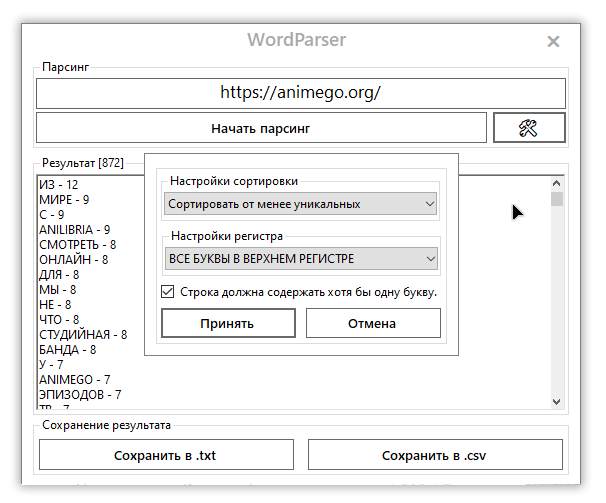
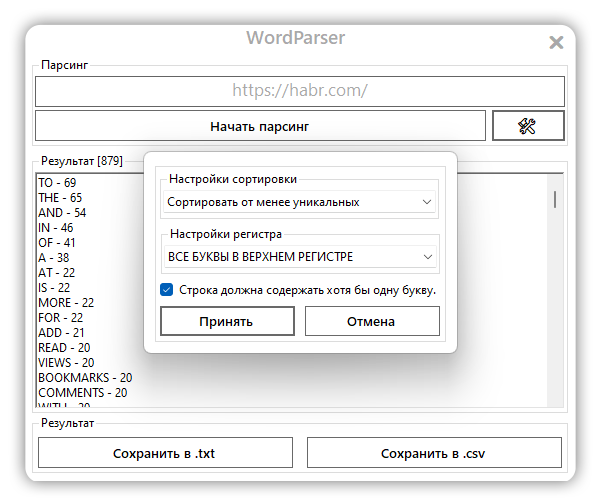
-Обновлена привьюшка и описание

Changed region(s): [[0.03, 0.0298, 0.9584, 0.9841], [0.8386, 0.3877, 0.8686, 0.4473]]

diff --git a/src/Core/Forms/WordParserMainForm.Designer.cs b/src/Core/Forms/WordParserMainForm.Designer.cs
@@ -24,7 +24,7 @@ internal partial class WordParserMainForm
             this.urlForParsingTextBox = new System.Windows.Forms.TextBox();
             this.startParsingButton = new System.Windows.Forms.Button();
             this.appExitButton = new System.Windows.Forms.Button();
-            this.title = new System.Windows.Forms.Label();
+            this.titleLabel = new System.Windows.Forms.Label();
             this.parsingGroupBox = new System.Windows.Forms.GroupBox();
             this.settingsParsingButton = new System.Windows.Forms.Button();
             this.resultGroupBox = new System.Windows.Forms.GroupBox();
@@ -81,17 +81,17 @@ internal partial class WordParserMainForm
             // 
             // titleLabel
             // 
-            this.title.Anchor = System.Windows.Forms.AnchorStyles.None;
-            this.title.AutoSize = true;
-            this.title.BackColor = System.Drawing.Color.Transparent;
-            this.title.Font = new System.Drawing.Font("Segoe UI Semibold", 14F, System.Drawing.FontStyle.Bold, System.Drawing.GraphicsUnit.Point);
-            this.title.ForeColor = System.Drawing.Color.DarkGray;
-            this.title.Location = new System.Drawing.Point(221, 3);
-            this.title.Name = "titleLabel";
-            this.title.Size = new System.Drawing.Size(111, 25);
-            this.title.TabIndex = 3;
-            this.title.Text = "WordParser";
-            this.title.TextAlign = System.Drawing.ContentAlignment.MiddleCenter;
+            this.titleLabel.Anchor = System.Windows.Forms.AnchorStyles.None;
+            this.titleLabel.AutoSize = true;
+            this.titleLabel.BackColor = System.Drawing.Color.Transparent;
+            this.titleLabel.Font = new System.Drawing.Font("Segoe UI Semibold", 14F, System.Drawing.FontStyle.Bold, System.Drawing.GraphicsUnit.Point);
+            this.titleLabel.ForeColor = System.Drawing.Color.DarkGray;
+            this.titleLabel.Location = new System.Drawing.Point(221, 3);
+            this.titleLabel.Name = "titleLabel";
+            this.titleLabel.Size = new System.Drawing.Size(111, 25);
+            this.titleLabel.TabIndex = 3;
+            this.titleLabel.Text = "WordParser";
+            this.titleLabel.TextAlign = System.Drawing.ContentAlignment.MiddleCenter;
             // 
             // parsingGroupBox
             // 
@@ -195,7 +195,7 @@ internal partial class WordParserMainForm
             this.Controls.Add(this.saveBox);
             this.Controls.Add(this.resultGroupBox);
             this.Controls.Add(this.parsingGroupBox);
-            this.Controls.Add(this.title);
+            this.Controls.Add(this.titleLabel);
             this.Controls.Add(this.appExitButton);
             this.FormBorderStyle = System.Windows.Forms.FormBorderStyle.None;
             this.MaximumSize = new System.Drawing.Size(560, 462);
@@ -217,7 +217,7 @@ internal partial class WordParserMainForm
     private System.Windows.Forms.TextBox urlForParsingTextBox;
     private System.Windows.Forms.Button startParsingButton;
     private System.Windows.Forms.Button appExitButton;
-    private System.Windows.Forms.Label title;
+    private System.Windows.Forms.Label titleLabel;
     private System.Windows.Forms.GroupBox parsingGroupBox;
     private System.Windows.Forms.GroupBox resultGroupBox;
     private System.Windows.Forms.RichTextBox resultRichText;

diff --git a/src/Core/Forms/WordParserMainForm.cs b/src/Core/Forms/WordParserMainForm.cs
@@ -50,9 +50,9 @@ internal partial class WordParserMainForm : Form
         this.MouseDown += (s, e) => MoveFormPosition(this);
         this.MouseMove += (s, e) => MoveFormPosition(this);
         this.MouseUp += (s, e) => MoveFormPosition(this);
-        this.title.MouseDown += (s, e) => MoveFormPosition(this.title);
-        this.title.MouseMove += (s, e) => MoveFormPosition(this.title);
-        this.title.MouseUp += (s, e) => MoveFormPosition(this.title);
+        this.titleLabel.MouseDown += (s, e) => MoveFormPosition(this.titleLabel);
+        this.titleLabel.MouseMove += (s, e) => MoveFormPosition(this.titleLabel);
+        this.titleLabel.MouseUp += (s, e) => MoveFormPosition(this.titleLabel);
     }
 
     private void ActionOnEventsUI()

diff --git a/README.md b/README.md
@@ -1,23 +1,23 @@
-# WordParser - Тестовое задание на Backend-практикум
-<img height="450" align="centr" src="preview.png"></br>
-## Требования к приложению:
+<h2 align="center">
+    WordParser - Тестовое задание на Backend-практикум
+</h2>
+<p align="center"> <img src="preview.png" /> </p>
+</br>
+<h2> Требования к приложению: </h2>
 1. В качестве входных данных приложение принимает строку с адресом
 web-страницы;
-2. Приложение разбивает текст страницы на отдельные слова с помощью
-списка разделителей.
-</br>Пример списка:
-```{' ', ',', '.', '! ', '?','"', ';', ':', '[', ']', '(', ')', '\n', '\r', '\t'}```
+</br>2. Приложение разбивает текст страницы на отдельные слова с помощью
+списка разделителей;
+</br>
+<b> Пример списка: </b>
+<pre><code>{' ', ',', '.', '! ', '?','"', ';', ':', '[', ']', '(', ')', '\n', '\r', '\t'}</code></pre>
 3. В качестве результата работы пользователь должен получить статистику по
 количеству уникальных слов в тексте.
-</br></br>**Пример:**
-```
-РАЗРАБОТКА - 1
-ПРОГРАММНОГО - 2
-ОБЕСПЕЧЕНИЯ - 4
-```
 </br>
-
+<b> Пример: </b>
+<pre><code>АЗРАБОТКА - 1 
+ПРОГРАММНОГО - 2 
+ОБЕСПЕЧЕНИЯ - 4</code></pre>
 4. При разработке позволяется использовать сторонние библиотеки;
-5. Приложение написано в соответствии с принципами ООП;
-6. Приложение написано на языке выбранного направления (Java, C#, Golang).
-</br>
+</br>5. Приложение написано в соответствии с принципами ООП;
+</br>6. Приложение написано на языке выбранного направления (Java, C#, Golang).
